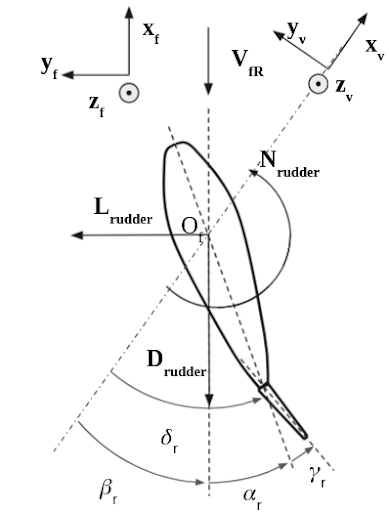
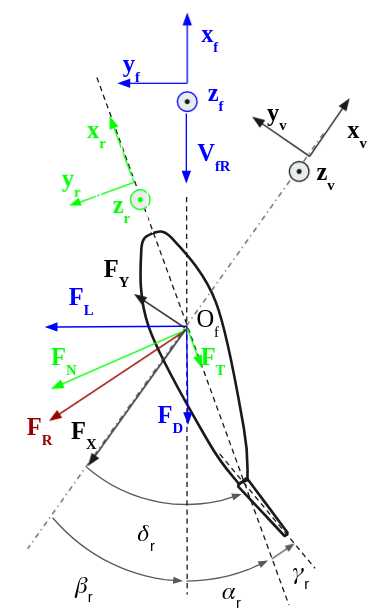
[DOC] corrected and updated with Fujii's method

diff --git a/doc/theory/src/rudder.rst b/doc/theory/src/rudder.rst
@@ -1,21 +1,22 @@
 .. _rudder_model:
 
-Rudder model
-============
+Rudder models
+=============
 
 Frames and conventions
 ----------------------
 
-The convention used here is NWU.
+The convention used here is NWU (North-West-Up).
 
-The drag and lift contributions are expressed respectfully collinear and perpendicular to the inflow velocity field :math:`V_{fR}`,
-with the introduction of a frame :math:`R_f=(O_f,x_f,y_f,z_f)` defined by:
+Three frames can be defined to expressed the rudder loads, see the following :ref:`figure <fig_rudder_frame>`.
 
-- :math:`O_f` is ont the rudder stock, the rudder rotation axis,
-- :math:`z_f` is collinear to the rudder stock, pointing upwards,
-- :math:`y_f = z_f \times \dfrac{-V_{fR}{|V_{fR}|}`, in order to get lift and drag forces in a plane perpendicular to the rudder axis,
-- :math:`x_f = y_f \times z_f`, so that the frame is orthogonal and direct
+- the vessel frame :math:`R_v=(x_v,y_v,z_v)`, with :math:`F_R = (F_X, F_Y, 0)_{R_v}`
+- the rudder frame :math:`R_r=(x_r,y_r,z_r)`, with :math:`F_R = (F_T, F_N, 0)_{R_r}`
+- the inflow frame :math:`R_f=(x_f,y_f,z_f)`, with :math:`F_R = (F_D, F_L, 0)_{R_f}`
 
+The drag :math:`F_D` and lift :math:`F_L` contributions are expressed respectfully collinear and perpendicular to the inflow
+velocity field :math:`V_{fR}`. The normal :math:`F_N` and tangent :math:`F_T` contributions are relative to the rudder
+orientation.
 
 .. _fig_rudder_frame:
 .. figure:: ../_static/rudder_frame.png
@@ -27,72 +28,98 @@ with the introduction of a frame :math:`R_f=(O_f,x_f,y_f,z_f)` defined by:
 The rudder attack angle :math:`\alpha_r` can be expressed using the rudder deflection angle :math:`\delta_r` and the
 local drift angle :math:`\beta_r`.
 
-Expression of the force
------------------------
-
-The generalized force is expressed in the :math:`R_f` frame :
-
 .. math::
-   F_{rudder} =
-   \begin{bmatrix}
-    D & 0 \\
-    L & 0 \\
-    0          & N
-   \end{bmatrix}_{R_f}
+    \alpha_r = \delta_r - \beta_r
 
-with the drag, lift and torque components
+The projection of the rudder loads from the inflow frame, to the vessel frame is then
 
 .. math::
     \begin{cases}
-        D &=& \dfrac{1}{2} \rho C_d(\alpha_r) A_r V_{fRA}^2\\
-        L &=& \dfrac{1}{2} \rho C_l(\alpha_r) A_r V_{fRA}^2\\
-        N &=& \dfrac{1}{2} \rho C_n(\alpha_r) A_r c V_{fRA}^2\\
+        F_X &=& F_D \cos(\beta_r) - F_L \sin(\beta_r)\\
+        F_Y &=& F_D \sin(\beta_r) + F_L \cos(\beta_r)
+    \end{cases}
+
+The projection from the rudder frame to the vessel frame is
+
+.. math::
+    \begin{cases}
+        F_X &=& F_T \cos(\delta_r) - F_N \sin(\delta_r)\\
+        F_Y &=& F_T \sin(\delta_r) + F_N \cos(\delta_r)
+    \end{cases}
+
+..
+    And the projection from the rudder frame to the inflow frame is
+    .. math::
+        \begin{cases}
+            F_D &=& T \cos(\alpha_r) + F_N \sin(\alpha_r)\\
+            F_L &=&-T \sin(\alpha_r) + F_N \cos(\alpha_r)
+        \end{cases}
+
+Drag-Lift model
+---------------
+
+A general procedure to establish the rudder loads is to compute numerically, using CFD, the drag and lift loads along
+with the torque at the rudder stock, and extract the non dimensional coefficients
+:math:`(C_d(\alpha_r), C_l(\alpha_r), C_n(\alpha_r))` function of the attack angle.
+
+.. math::
+    \begin{cases}
+        F_D &=& \dfrac{1}{2} \rho C_d(\alpha_r) A_r V_{fRA}^2\\
+        F_L &=& \dfrac{1}{2} \rho C_l(\alpha_r) A_r V_{fRA}^2\\
+        M_n &=& \dfrac{1}{2} \rho C_n(\alpha_r) A_r c V_{fRA}^2\\
     \end{cases}
 
 where :math:`\rho` is the water density, :math:`A_r` is the projected lateral area and :math:`c` is the rudder chord.
 
-Projection in the body frame
-----------------------------
+Fujii's estimation formula
+--------------------------
 
-The velocity components are given in the body reference frame, in order to apply the hull/propeller/rudder interactions.
+Widely used in the manoeuvring community, Fujii's method [Fujii1960]_ only considers the normal load, and neglects the
+tangential component. This assumption is only applicable for small attack angles. The normal component is estimated as:
 
-The projection of the drag, lift and torque in the body frame can be written:
+.. math::
+    F_N = \dfrac{1}{2} \rho A_R V_{fRA}^2 f_{\alpha}\sin (\alpha_r)
+
+where :math:`\rho` is the water density, :math:`A_r` is the projected lateral area and :math:`f_\alpha` is:
+
+.. math::
+    f_\alpha = 6.13 \dfrac{\Lambda}{\Lambda + 2.25}
+
+where :math:`\Lambda = B_R/C_R = A_R/C_R^2` is the rudder geometric aspect ratio. :math:`B_R` and :math:`C_R` are the
+rudder span and rudder chord respectively.
+
+The rudder loads in the vessel frame are then
 
 .. math::
     \begin{cases}
-        X &=& D cos(\beta) - L sin(\beta)\\
-        Y &=& D sin(\beta) + L cos(\beta)\\
-        N &=& N
+        F_X &=& - F_N \sin(\delta_r)\\
+        F_Y &=& F_N \cos(\delta_r)\\
+        M_n &=& 0
     \end{cases}
 
-..
-    :math:`X_{Rr}` and :math:`Y_{Rr}` are respectfully the tangential and normal components of the rudder forces, in the
-    rudder reference frame. A common approximation in the literature is to consider only the normal component, the tangential
-    being small.
-
-Hull/rudder interactions
-------------------------
+Hull/propeller/rudder interactions
+----------------------------------
 
 .. _rudder_lift_correction:
-Correction on the lift
-++++++++++++++++++++++
 
-As for the propeller, the hull/rudder interaction involves a correction of the lift, due to the upstream presence of the
-hull. However, an additional lift force of equal direction is generated at the afterbody, proportional to the lift,
-leading to a total lift force :
+Correction on the loads
++++++++++++++++++++++++
 
-.. math::
-    L_{total} = L + L_{add} = (1 + a_H) L
+As for the propeller, the hull/rudder interaction involves a correction of the longitudinal due to the presence of the
+propeller [Yasukawa2015]_, but also an additional transverse load, generated at the afterbody, due to the presence of
+the hull [Brix1993]_ (eq 1.2.31).
+While the original transverse force is applied at the rudder longitudinal position :math:`x_R`, the additional load is applied
+at the rudder hydrodynamic longitudinal location, :math:`x_H`. Several empiric estimations are given for this parameter,
+a gross approximation is to take :math:`x_H = -0.45 Lpp` (when :math:`x_R = -0.5 Lpp` generally).
 
-While the original lift force is applied at the rudder longitudinal position :math:`x_R`, the additional lift is applied
-at the rudder hydrodynamic longitudinal location, :math:`x_H`.
-Several empiric estimation are given for this parameter, a gross approximation is to take : math:`x_H = -0.45 Lpp`
-(when :math:`x_R = -0.5 Lpp` generally).
-
-This means that the torque at the rudder position is
+The rudder forces and torque expressed at the rudder position are then
 
 .. math::
-    N_{total} = N + a_H (x_H - x_R) L_{add} cos(\beta)
+    \begin{cases}
+        X_r &=& (1 - t_R) F_X\\
+        Y_r &=& (1 + a_H) F_Y\\
+        N_r &=& M_n + a_H(x_H - x_R) F_Y
+    \end{cases}
 
 Wake fraction
 +++++++++++++
@@ -200,7 +227,7 @@ the straighten rudder drift angle:
 They pointed out that the two constants :math:`\gamma_R` and :math:`l'_R` might differ for port and starboard rudders.
 
 Sutulo's model
-++++++++++++
+++++++++++++++
 
 Sutulo extended Inoue's model in the four quadrants of operation, and applied the flow straightening factor to the rudder
 transverse velocity.
@@ -230,6 +257,7 @@ and :math:`K2 = 0.5`, :math:`K3 = 0.45` (as in Inoue's model).
 References
 ----------
 .. [Brix1993] Brix, J. (1993). Manoeuvring technical manual. Hamburg, Germany: Seehafen Verlag.
+.. [Fujii1960] Fujii, H., 1960. Experimental researches on rudder performance (1) (in Japanese). J. Zosen Kiokai 107, 105–111.
 .. [Kose1982] Kose, K. (1982). On a new mathematical model of maneuvering motions of a ship and its applications. International Shipbuilding Progress, 29(336), 205-220.
 .. [Molland1995a] Molland, A. F., & Turnock, S. R. (1995). Wind tunnel tests on the effect of a ship hull on rudder-propeller performance at different angles of drift.
 .. [Molland1995b] Molland, A. F., Turnock, S. R., & Smithwick, J. E. T. (1995). Wind tunnel tests on the influence of propeller loading and the effect of a ship hull on skeg-rudder performance.
